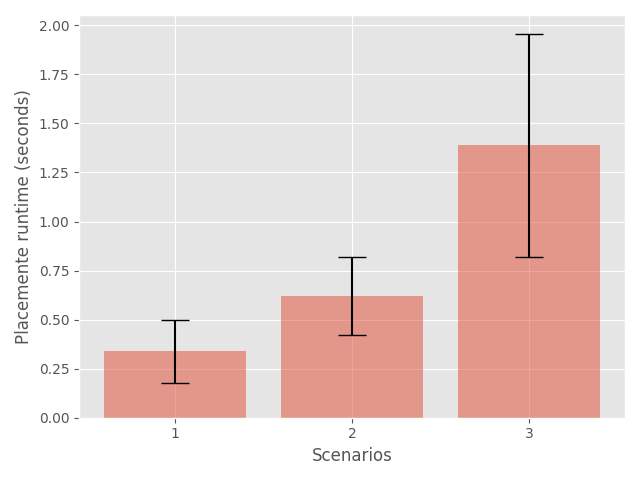
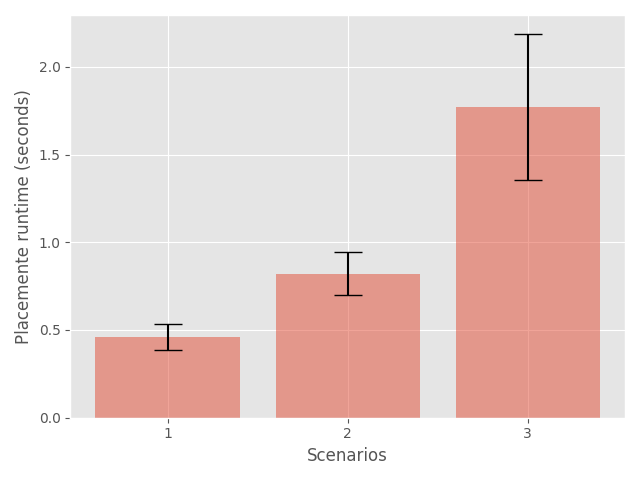
updating the environment controller and placement runtime experiments

diff --git a/spider/environment-controller/environment_controller.py b/spider/environment-controller/environment_controller.py
@@ -91,17 +91,20 @@ class EnvironmentController(FlaskView):
         
         sfc_json = request.json
 
-        vnfs_to_place_temp = [
+        if self.config['create_source_destinaion_apps']:
+            vnfs_to_place_temp = [
 
-            {
-                'name':'source',
-                'final_vnf_name':sfc_json['name']+'-source',
-                'node_name': sfc_json['source'],
-                'replicas': 1,
-                'resources': {'cpu':1, 'memory':1, 'storage':1},
-                'last_vnf': False
-            }            
-        ]
+                {
+                    'name':'source',
+                    'final_vnf_name':sfc_json['name']+'-source',
+                    'node_name': sfc_json['source'],
+                    'replicas': 1,
+                    'resources': {'cpu':1, 'memory':1, 'storage':1},
+                    'last_vnf': False
+                }            
+            ]
+        else:
+            vnfs_to_place_temp = []
 
         
         update_next_vnf_source = True
@@ -113,7 +116,7 @@ class EnvironmentController(FlaskView):
             vnf_to_place['name'] = vnf['name']
             vnf_to_place['final_vnf_name'] = sfc_json['name']+'-'+vnf['name']
 
-            if update_next_vnf_source:
+            if update_next_vnf_source and self.config['create_source_destinaion_apps']:
                 vnfs_to_place_temp[0]['next_vnf'] = vnf_to_place['final_vnf_name']+'-service'
                 update_next_vnf_source = False
 
@@ -122,7 +125,11 @@ class EnvironmentController(FlaskView):
             vnf_to_place['resources'] = vnf['resources']
             
             if i == len(sfc_json['VNFs'])-1:
-                last_vnf = False # True
+                if self.config['create_source_destinaion_apps']:
+                    last_vnf = False
+                else:
+                    last_vnf = True
+
                 next_vnf = sfc_json['name']+'-destination-service'
             else:
                 last_vnf = False
@@ -173,17 +180,18 @@ class EnvironmentController(FlaskView):
                     else:
                         return 'Error!!!'
         
-        vnfs_to_place.append(
-            {
-                'name':'destination',
-                'final_vnf_name':sfc_json['name']+'-destination',
-                'node_name': sfc_json['destination'],
-                'replicas': 1,
-                'resources': {'cpu':1, 'memory':1, 'storage':1},
-                'next_vnf': '',
-                'last_vnf': True
-            }
-        )
+        if self.config['create_source_destinaion_apps']:
+            vnfs_to_place.append(
+                {
+                    'name':'destination',
+                    'final_vnf_name':sfc_json['name']+'-destination',
+                    'node_name': sfc_json['destination'],
+                    'replicas': 1,
+                    'resources': {'cpu':1, 'memory':1, 'storage':1},
+                    'next_vnf': '',
+                    'last_vnf': True
+                }
+            )
 
         for vnf in vnfs_to_place:
             # print(vnf,'\n---------------------')

diff --git a/experiments/client_experiments_placement.py b/experiments/client_experiments_placement.py
@@ -3,15 +3,28 @@ import requests
 import time
 import numpy as np
 import time
+import random
 
 api_url = 'http://192.168.0.209:3500/sfc_request'
 sfc_name = 'my-sfc'
 
-number_of_vnfs = 3
+number_of_vnfs = 2
 
 f = open('sfc_requests_examples/sfc_request_example_'+str(number_of_vnfs)+'_vnfs.json')
 request_data = json.load(f)
 f.close()
+
+machines = [
+	'aerys-targaryen',
+        'daenerys-targaryen',
+	'ned-stark',
+	'sansa-stark',
+	'tyrion-lannister',
+	'cersei-lannister'
+	]
+
+request_data['source'] = random.choice(machines)
+request_data['destination'] = random.choice(machines)
 
 headers = {'Content-type': 'application/json', 'Accept': 'text/plain'}
 
@@ -20,18 +33,20 @@ times_list = []
 result = ''
 
 for x in range(number_of_experiments):
-    print('Starting:',x)
+	print('Starting:',str(x+1)+'/'+str(number_of_experiments))
+	# creating the SFC
+	try:
+		start = time.time()
+		r = requests.post(api_url, data=json.dumps(request_data), headers=headers)
+		end = time.time()
 
-    # creating the SFC
-    start = time.time()
-    r = requests.post(api_url, data=json.dumps(request_data), headers=headers)
-    end = time.time()
+		times_list.append(end-start)
+		result += str(end-start)+'\n'
 
-    times_list.append(end-start)
-    result += str(end-start)+'\n'
-
-    r = requests.delete(api_url+'/'+sfc_name)
-    time.sleep(5)
+		r = requests.delete(api_url+'/'+sfc_name)
+		time.sleep(5)
+	except:
+		print('Error!')
 
 print('Mean placement time (seconds):',np.mean(times_list))
 print('Standard deviation placement time:', np.std(times_list))

diff --git a/experiments/results/old/placement_runtime/bar-plot.py b/experiments/results/old/placement_runtime/bar-plot.py
@@ -11,7 +11,7 @@ avarage_list = []
 std_list = []
 
 for x in scenarios:
-    f = open("placement_results_"+str(x)+"_vnfs.txt", "r")
+    f = open("results/results_"+str(x)+"_vnfs.txt", "r")
     lines = f.readlines()[-2:] # getting only mean and standard deviation from result files
     lines = [float(line[line.find(start)+len(start):line.rfind(end)]) for line in lines]
     
@@ -33,5 +33,5 @@ ax.yaxis.grid(True)
 
 # Save the figure and show
 plt.tight_layout()
-plt.savefig('runtime-results.png')
+plt.savefig('results/runtime-results.png')
 # plt.show()
